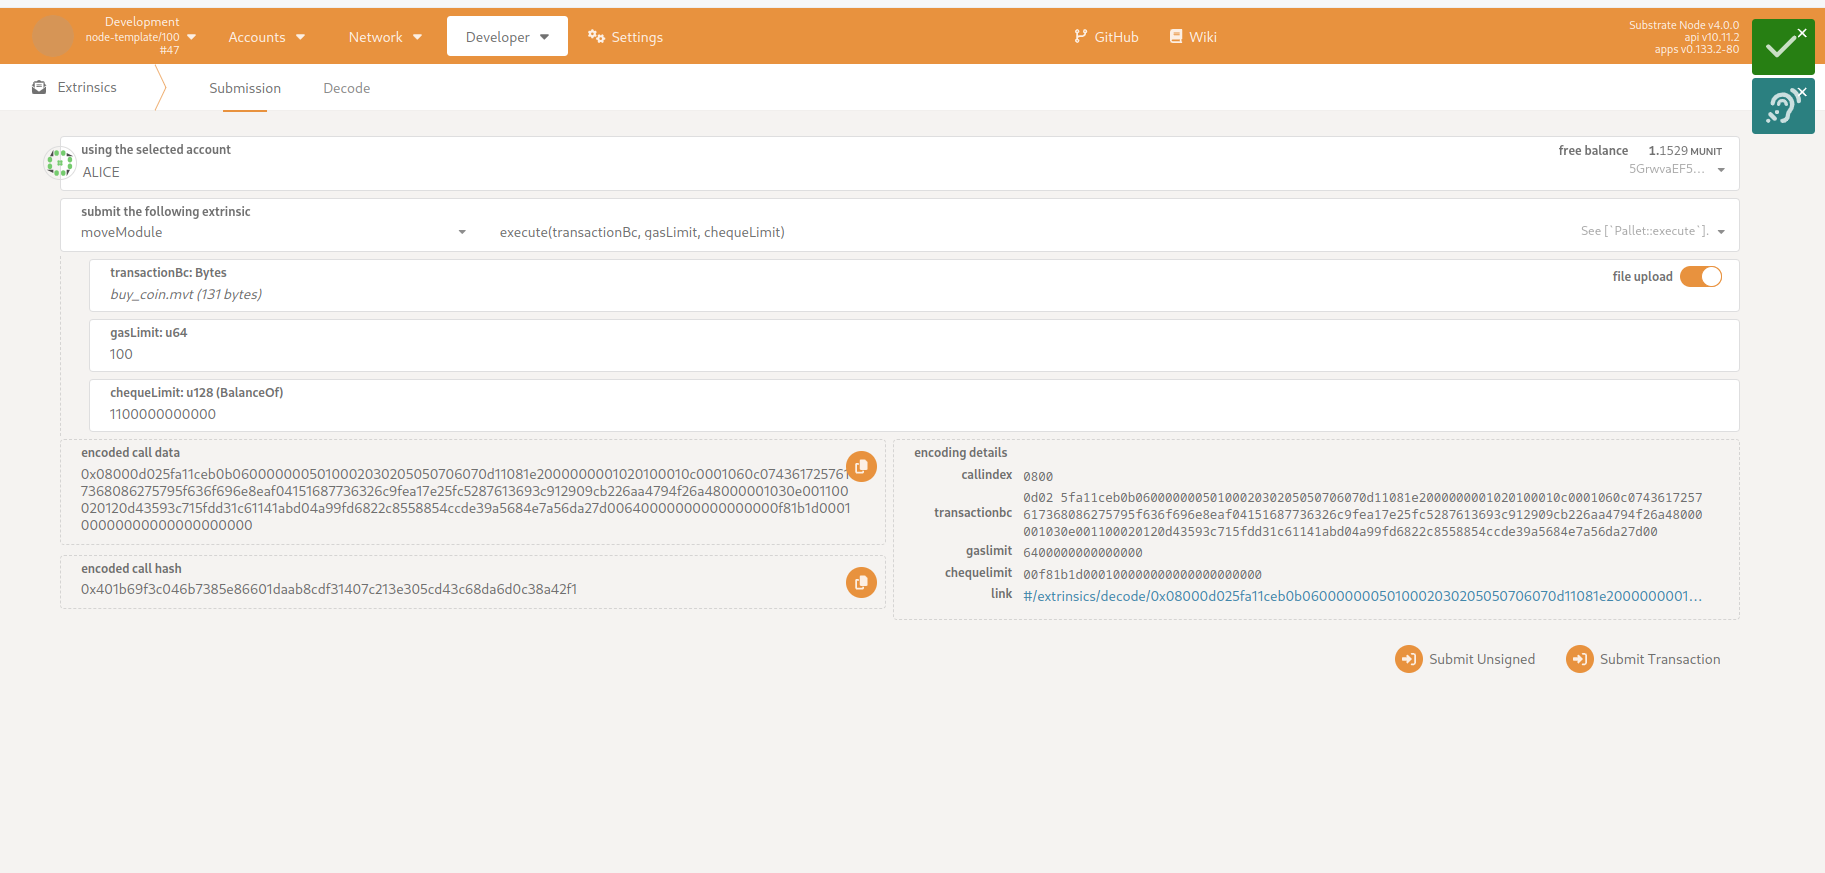
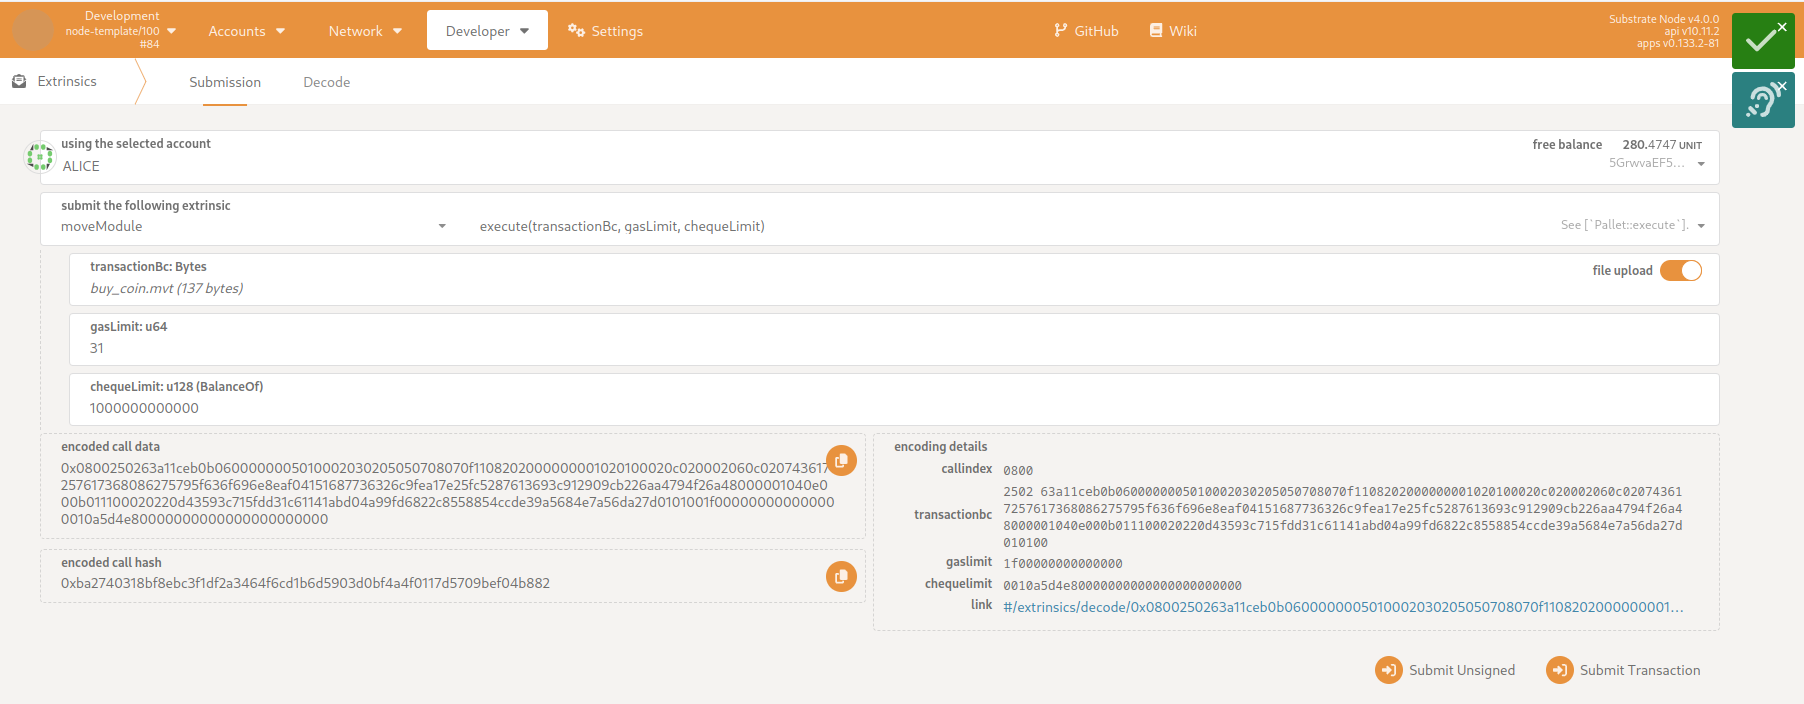
feat: second parameter in buy-coin

diff --git a/doc/tutorial.md b/doc/tutorial.md
@@ -32,6 +32,9 @@ In our example, a simple car wash is modelized, where washing coins are used to 
 
 ```move
 module DeveloperBob::CarWash {
+    /// Simple solution, fixed price for one washing coin.
+    const COIN_PRICE: u128 = 1000000000000; // equals 1 UNIT
+
     /// Struct stores number of coins for each user.
     struct Balance has key, store {
         coins: u8
@@ -43,9 +46,8 @@ module DeveloperBob::CarWash {
     /// Registers a new user. The account address will be added to the storage Balance with zero initial washing coins.
     public fun register_new_user(account: &signer) {}
 
-    /// Buys a washing coin for the car wash. Therfore, `COIN_PRICE` will be withdrawn from the user's account.
-    // Note: It would be nice to have the ability to buy multiple coins at once, but it's not implemented for this example.
-    public fun buy_coin(user: &signer) acquires Balance {}
+    /// Buys `count` washing coin(s) for the car wash. Therfore, `COIN_PRICE` * `count` will be withdrawn from the user's account.
+    public fun buy_coin(user: &signer, count: u8) acquires Balance {}
 
     /// Initiates the washing process by paying one washing coin.
     public fun wash_car(user: &signer) acquires Balance {}
@@ -81,7 +83,7 @@ smove node rpc estimate-gas-publish-module --account-id 5FHneW46xGXgs5mUiveU4sbT
 
 The successful result will look like:
 ```sh
-Estimated gas: Estimate (gas_used: 69, vm_status_code: EXECUTED)
+Estimated gas: Estimate (gas_used: 74, vm_status_code: EXECUTED)
 ```
 
 ### Publication 
@@ -125,8 +127,7 @@ _An important note here - if the script function requires a signer, that signer'
 
 If you see the following message: 
 ```sh
-Script transaction is created at:
-# ... 
+Script transaction is created at: # ... 
 ```
 It means the script and provided parameters have been serialized into the specified output file (serialized transaction), which can now be used in polkadot.js:
 
@@ -135,7 +136,10 @@ It means the script and provided parameters have been serialized into the specif
 Now - like when publishing a module - the optimal amount of needed gas for the script execution can also be estimated by using `smove`:
 ```sh
 smove node rpc estimate-gas-execute-script -a 5FHneW46xGXgs5mUiveU4sbTyGBzmstUspZC92UhjJM694ty -s build/car-wash-example/script_transactions/initial_coin_minting.mvt --cheque-limit 0
-# Estimated gas: Estimate (gas_used: 21, vm_status_code: EXECUTED)
+```
+with response:
+```sh
+Estimated gas: Estimate (gas_used: 21, vm_status_code: EXECUTED)
 ```
 
 ### Execution

diff --git a/tests/assets/move-projects/car-wash-example/hints.md b/tests/assets/move-projects/car-wash-example/hints.md
@@ -1,0 +1,37 @@
+# Shell Snippets
+
+### Estimate Gas for Module `CarWash`
+
+Requirement: Before publishing the module for user _Bob_.
+
+```sh
+smove node rpc estimate-gas-publish-module --account-id 5FHneW46xGXgs5mUiveU4sbTyGBzmstUspZC92UhjJM694ty --module-path build/car-wash-example/bytecode_modules/CarWash.mv
+```
+
+### Estimate Gas for Script `initial_coin_minting`
+
+Requirement: After publishing the module for user _Bob_.
+```sh
+smove node rpc estimate-gas-execute-script -a 5FHneW46xGXgs5mUiveU4sbTyGBzmstUspZC92UhjJM694ty -s build/car-wash-example/script_transactions/initial_coin_minting.mvt --cheque-limit 0
+```
+
+### Estimate Gas for Script `register_new_user`
+
+Requirement: After publishing the module for an arbitrary user.
+```sh
+smove node rpc estimate-gas-execute-script -a 5GrwvaEF5zXb26Fz9rcQpDWS57CtERHpNehXCPcNoHGKutQY -s build/car-wash-example/script_transactions/register_new_user.mvt --cheque-limit 0
+```
+
+### Estimate Gas for Script `buy_coin`
+
+Requirement: After registering a user with same user. Works for buying one coin.
+```sh
+smove node rpc estimate-gas-execute-script -a 5GrwvaEF5zXb26Fz9rcQpDWS57CtERHpNehXCPcNoHGKutQY -s build/car-wash-example/script_transactions/buy_coin.mvt --cheque-limit 1000000000000
+```
+
+### Estimate Gas for Script `wash_car`
+
+Requirement: unknown.
+```sh
+smove node rpc estimate-gas-execute-script -a 5GrwvaEF5zXb26Fz9rcQpDWS57CtERHpNehXCPcNoHGKutQY -s build/car-wash-example/script_transactions/wash_car.mvt --cheque-limit 0
+```
